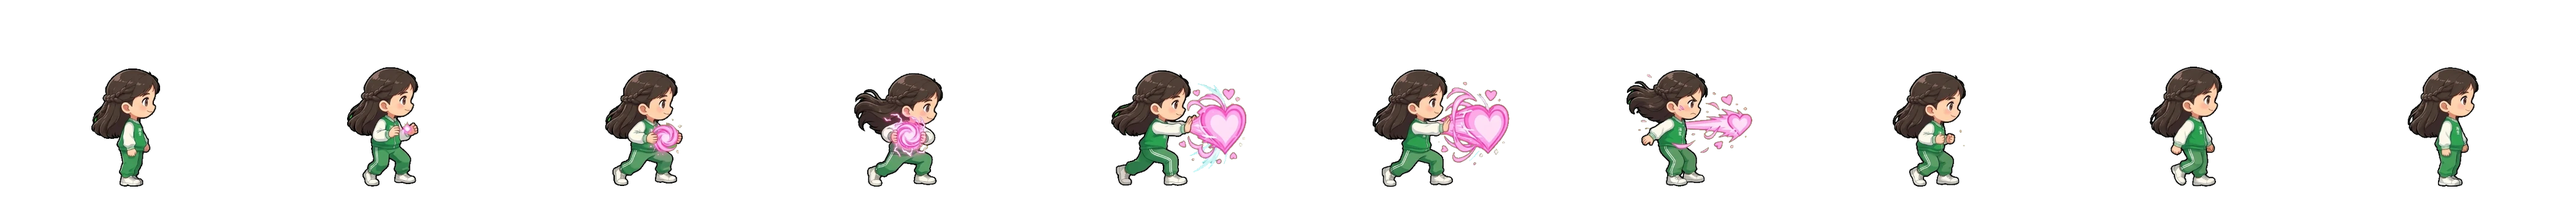
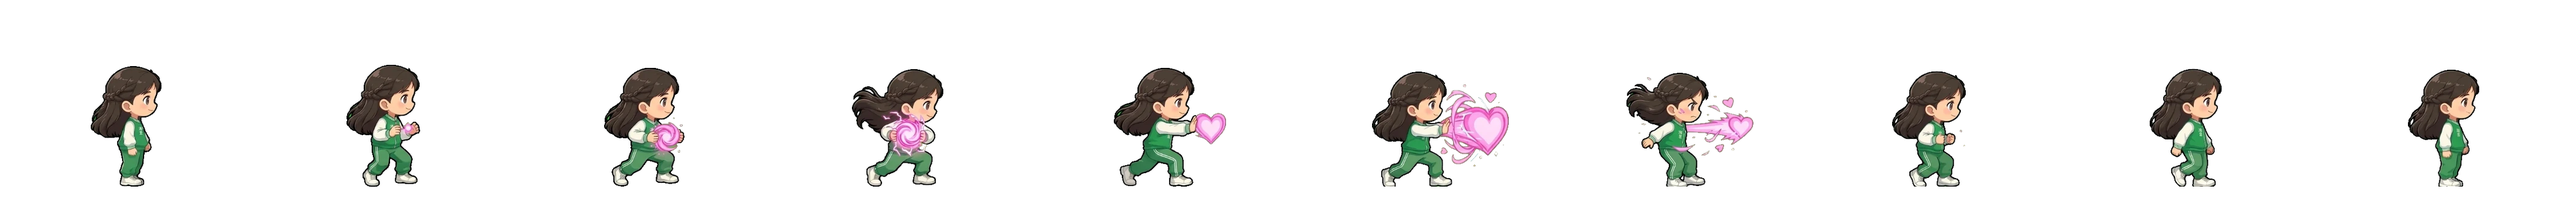
Update Adailing super special sheet and add matching Pink Heart Energy Cannon Beam VFX

diff --git a/game.js b/game.js
@@ -374,9 +374,9 @@
       walkSpeed: 245,
       runSpeed: 398,
       specialType: 'beam',
-      specialLabel: '星光波動砲',
-      specialShout: '海星全校星光砲!!',
-      specialSub: 'STARFISH NOVA CANNON!!',
+      specialLabel: '愛心波動砲',
+      specialShout: '愛心星光波動砲!!',
+      specialSub: 'HEART NOVA CANNON!!',
       heavyShout: '海星飛星斬!!',
       heavySub: 'STARFISH CRESCENT!!',
       dashLightShout: '操場黃金抽射!!',
@@ -4792,6 +4792,7 @@
       }
 
       // KUROMI SPECIAL: 能量砲十連發 (10-Shot Gothic Energy Cannon!)
+      const isHeartBeam = this.hero && this.hero.id === 'adailing';
       if (this.stateTime < 0.08) {
         this.frame = 0;
       } else if (this.stateTime < 0.16) {
@@ -4802,11 +4803,12 @@
         this.frame = 3;
         if (!this.hitIds.has('aura')) {
           this.hitIds.add('aura');
-          spawnParticles(this.x, this.z - 80, '#fb923c', 18, 260, 7);
+          const auraCol = isHeartBeam ? '#f472b6' : '#fb923c';
+          spawnParticles(this.x, this.z - 80, auraCol, 18, 260, 7);
           for (const e of game.enemies) {
             if (!e.dead && Math.abs(e.x - this.x) < 115 && Math.abs(e.z - this.z) < 55) {
               const dir = e.x >= this.x ? 1 : -1;
-              e.takeHit(10, dir, false, 150, '#fb923c');
+              e.takeHit(10, dir, false, 150, auraCol);
             }
           }
         }
@@ -4818,16 +4820,17 @@
           this.cannonImpactDone = true;
           triggerImpactFrame('#f472b6', 0.085);
         }
-        const beamSeq = [5, 6, 7, 6, 7, 8];
+        const beamSeq = isHeartBeam ? [5, 6, 5, 6, 6, 7] : [5, 6, 7, 6, 7, 8];
         this.frame = beamSeq[Math.min(beamSeq.length - 1, Math.floor((beamElapsed / 0.78) * beamSeq.length))];
 
         game.beamEffect = {
-          x: this.x + this.facing * 62,
-          y: this.z - 56,
+          x: this.x + this.facing * (isHeartBeam ? 72 : 62),
+          y: this.z - (isHeartBeam ? 64 : 56),
           z: this.z + 1,
           facing: this.facing,
           progress: beamElapsed / 0.78,
           pulse: Math.sin(beamElapsed * 75) * 0.5 + 0.5,
+          style: isHeartBeam ? 'heart' : 'kuromi',
         };
 
         this.cannonTickTimer -= dt;
@@ -4837,12 +4840,13 @@
           const isFinalShot = this.cannonTicks === 10;
           sfx.playCannonPulse(this.cannonTicks);
           addShake(isFinalShot ? 11 : 4.5, isFinalShot ? 0.22 : 0.08);
+          const hitCol = isHeartBeam ? '#f472b6' : '#f0abfc';
 
           for (const e of game.enemies) {
             if (e.dead) continue;
             const dx = (e.x - this.x) * this.facing;
             if (dx >= -25 && dx <= 760 && Math.abs(e.z - this.z) <= Z_HIT_BEAM) {
-              e.takeHit(isFinalShot ? 24 : 11, this.facing, isFinalShot, isFinalShot ? 380 : 42, '#f0abfc');
+              e.takeHit(isFinalShot ? 24 : 11, this.facing, isFinalShot, isFinalShot ? 380 : 42, hitCol);
             }
           }
           for (const prop of game.props) {
@@ -7854,17 +7858,124 @@
   // --------------------------------------------------------------------------
   // EXTENDING ENERGY CANNON LASER BEAM VFX (Synced to Kuromi's hands!)
   // --------------------------------------------------------------------------
+  function drawHeartPath(ctx, cx, cy, sz) {
+    ctx.beginPath();
+    ctx.moveTo(cx, cy + sz * 0.35);
+    ctx.bezierCurveTo(cx - sz * 0.6, cy - sz * 0.15, cx - sz * 0.6, cy - sz * 0.72, cx, cy - sz * 0.32);
+    ctx.bezierCurveTo(cx + sz * 0.6, cy - sz * 0.72, cx + sz * 0.6, cy - sz * 0.15, cx, cy + sz * 0.35);
+    ctx.closePath();
+  }
+
   function drawEnergyCannonBeam(ctx) {
     const b = game.beamEffect;
     if (!b) return;
     const len = 820;
-    const width = (46 + b.pulse * 18) * (b.progress > 0.85 ? (1 - b.progress) / 0.15 : 1);
+    const fade = b.progress > 0.85 ? (1 - b.progress) / 0.15 : 1;
+    const width = (46 + b.pulse * 18) * fade;
 
     ctx.save();
     ctx.translate(b.x, b.y);
     ctx.scale(b.facing, 1);
 
-    // Outer violet-magenta glow aura
+    if (b.style === 'heart') {
+      // Adailing's Pink Heart Starlight Energy Beam (愛心星光波動砲!)
+      const outerGrad = ctx.createLinearGradient(0, -width * 1.25, 0, width * 1.25);
+      outerGrad.addColorStop(0, 'rgba(236, 72, 153, 0)');
+      outerGrad.addColorStop(0.22, 'rgba(244, 114, 182, 0.88)');
+      outerGrad.addColorStop(0.5, 'rgba(255, 240, 248, 0.98)');
+      outerGrad.addColorStop(0.78, 'rgba(244, 114, 182, 0.88)');
+      outerGrad.addColorStop(1, 'rgba(236, 72, 153, 0)');
+
+      ctx.fillStyle = outerGrad;
+      ctx.beginPath();
+      ctx.moveTo(-6, -width * 0.52);
+      ctx.lineTo(len, -width * 1.18);
+      ctx.lineTo(len, width * 1.18);
+      ctx.lineTo(-6, width * 0.52);
+      ctx.closePath();
+      ctx.fill();
+
+      // Hot pastel-white inner core
+      ctx.fillStyle = '#fff5fa';
+      ctx.beginPath();
+      ctx.moveTo(-4, -width * 0.22);
+      ctx.lineTo(len, -width * 0.42);
+      ctx.lineTo(len, width * 0.42);
+      ctx.lineTo(-4, width * 0.22);
+      ctx.closePath();
+      ctx.fill();
+
+      // Twin swirling pink energy ribbons dancing along the beam
+      for (let strand = 0; strand < 2; strand++) {
+        ctx.strokeStyle = strand === 0 ? 'rgba(244, 114, 182, 0.92)' : 'rgba(251, 207, 232, 0.9)';
+        ctx.lineWidth = strand === 0 ? 5.5 : 3.5;
+        ctx.beginPath();
+        for (let sx = 0; sx <= len; sx += 24) {
+          const amp = (14 + (sx / len) * width * 0.72);
+          const sy = Math.sin(sx * 0.028 - game.time * 24 + strand * Math.PI) * amp;
+          if (sx === 0) ctx.moveTo(sx, sy); else ctx.lineTo(sx, sy);
+        }
+        ctx.stroke();
+      }
+
+      // Racing glowing Pink Hearts shooting down the beam!
+      for (let i = 0; i < 6; i++) {
+        const hx = ((game.time * 1350 + i * 140) % len);
+        const hSize = (26 + (hx / len) * 28 + b.pulse * 8) * fade;
+        ctx.save();
+        ctx.translate(hx, Math.sin(game.time * 16 + i * 1.7) * 6);
+        ctx.rotate(Math.PI * 0.5);
+        drawHeartPath(ctx, 0, 0, hSize);
+        ctx.fillStyle = 'rgba(255, 228, 242, 0.96)';
+        ctx.strokeStyle = '#ec4899';
+        ctx.lineWidth = 4;
+        ctx.fill();
+        ctx.stroke();
+        ctx.restore();
+      }
+
+      // Scattered floating mini pink hearts & white sparkles along edges
+      for (let i = 0; i < 10; i++) {
+        const px = ((game.time * 920 + i * 87) % len);
+        const side = i % 2 === 0 ? 1 : -1;
+        const py = side * (width * 0.65 + Math.sin(game.time * 14 + i * 2.1) * 16);
+        if (i % 3 === 0) {
+          ctx.fillStyle = '#ffffff';
+          const sp = 6 + (i % 4) * 2;
+          ctx.beginPath();
+          ctx.moveTo(px, py - sp); ctx.lineTo(px + sp * 0.3, py - sp * 0.3);
+          ctx.lineTo(px + sp, py); ctx.lineTo(px + sp * 0.3, py + sp * 0.3);
+          ctx.lineTo(px, py + sp); ctx.lineTo(px - sp * 0.3, py + sp * 0.3);
+          ctx.lineTo(px - sp, py); ctx.lineTo(px - sp * 0.3, py - sp * 0.3);
+          ctx.closePath();
+          ctx.fill();
+        } else {
+          drawHeartPath(ctx, px, py, 13 * fade);
+          ctx.fillStyle = '#f472b6';
+          ctx.strokeStyle = '#ffffff';
+          ctx.lineWidth = 1.6;
+          ctx.fill();
+          ctx.stroke();
+        }
+      }
+
+      // Giant pulsing Pink Heart muzzle burst right at palms
+      ctx.save();
+      ctx.translate(10, 0);
+      ctx.rotate(Math.PI * 0.5);
+      drawHeartPath(ctx, 0, 0, (46 + b.pulse * 14) * fade);
+      ctx.fillStyle = '#fff0f7';
+      ctx.strokeStyle = '#ec4899';
+      ctx.lineWidth = 5;
+      ctx.fill();
+      ctx.stroke();
+      ctx.restore();
+
+      ctx.restore();
+      return;
+    }
+
+    // Outer violet-magenta glow aura (Kuromi)
     const outerGrad = ctx.createLinearGradient(0, -width, 0, width);
     outerGrad.addColorStop(0, 'rgba(192, 38, 211, 0)');
     outerGrad.addColorStop(0.25, 'rgba(232, 121, 249, 0.85)');
